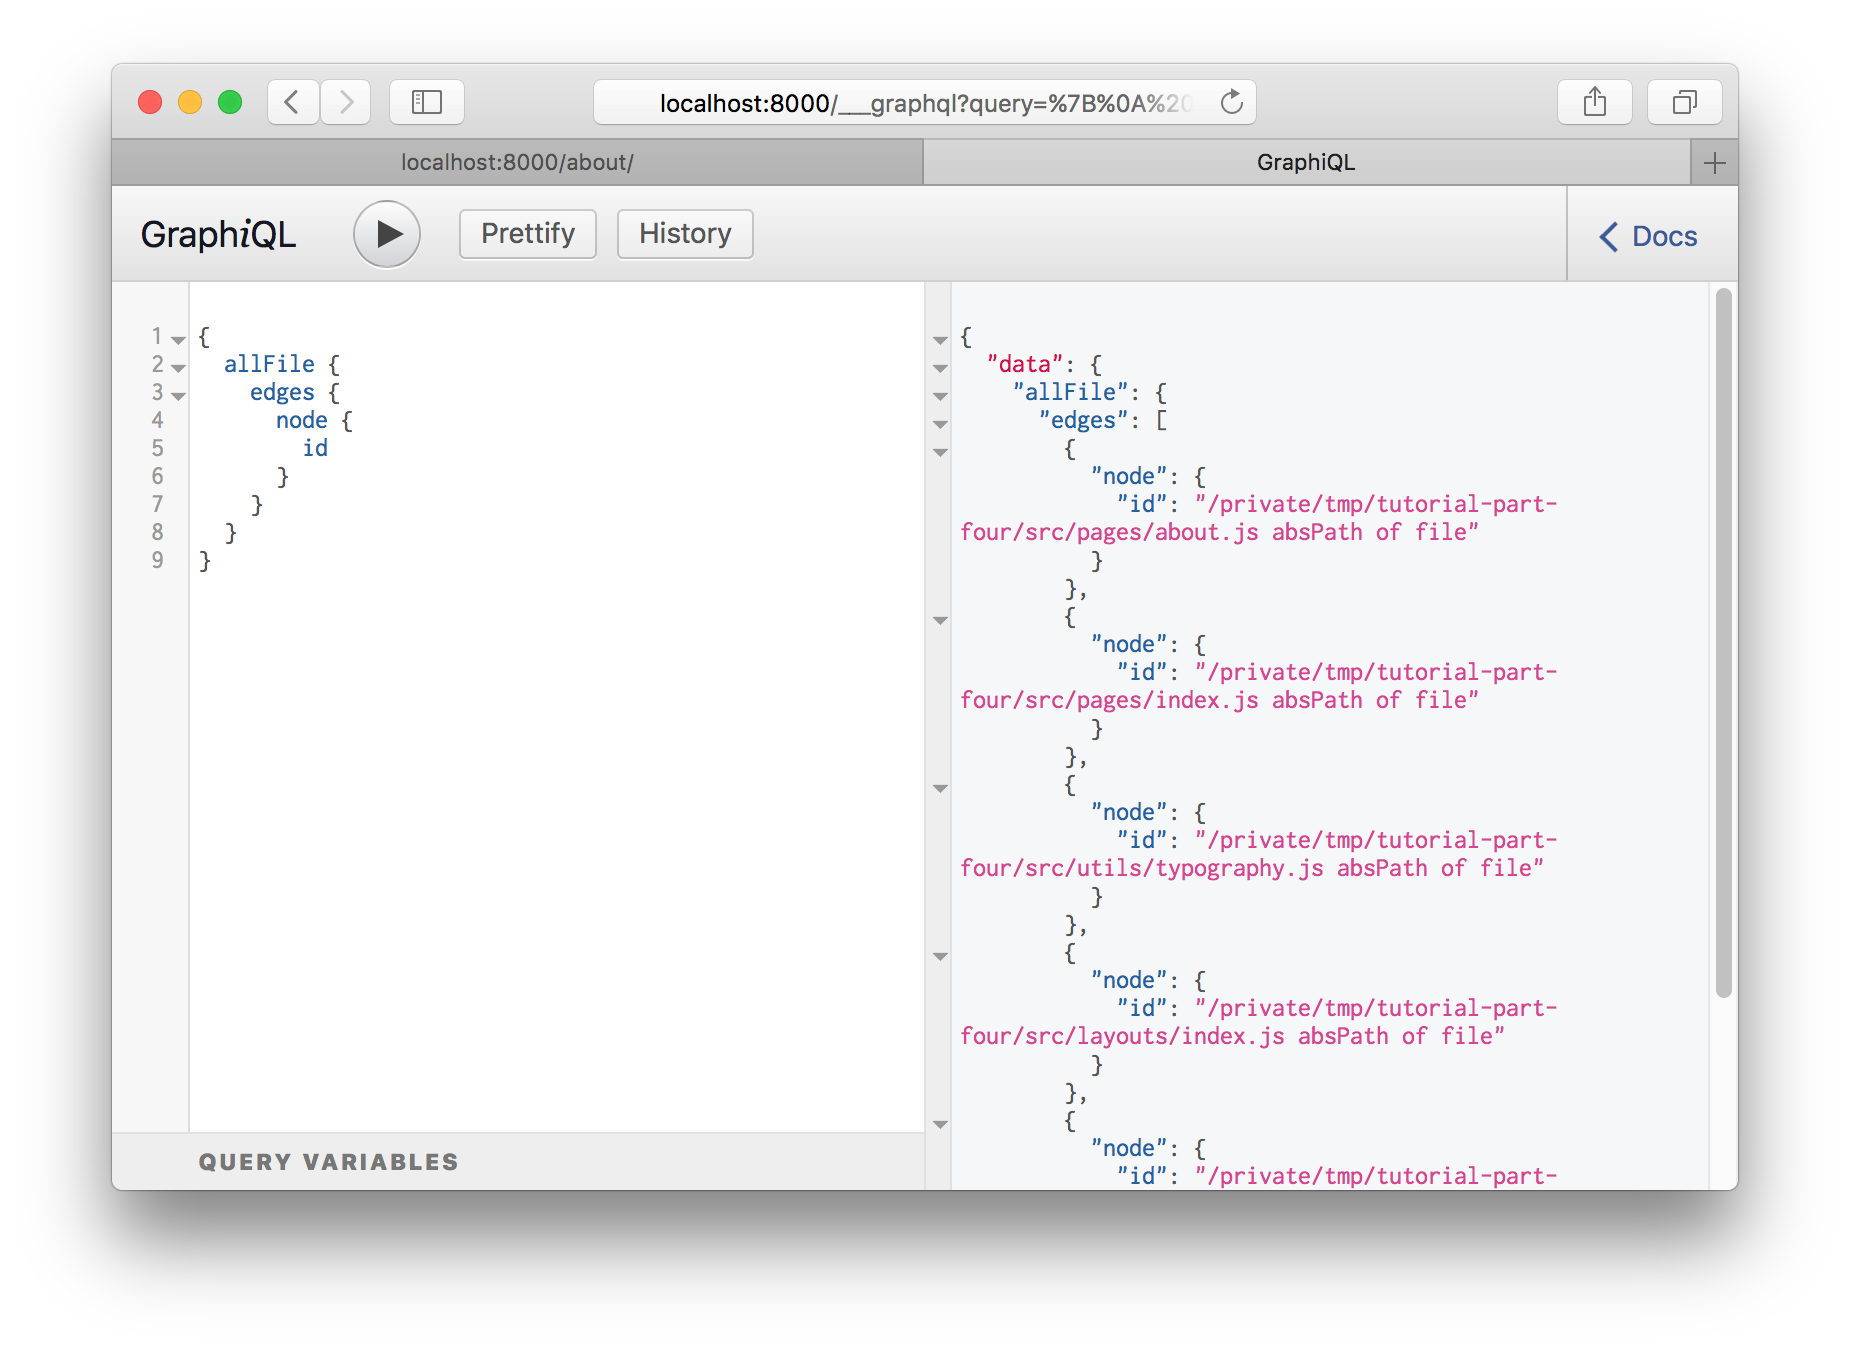
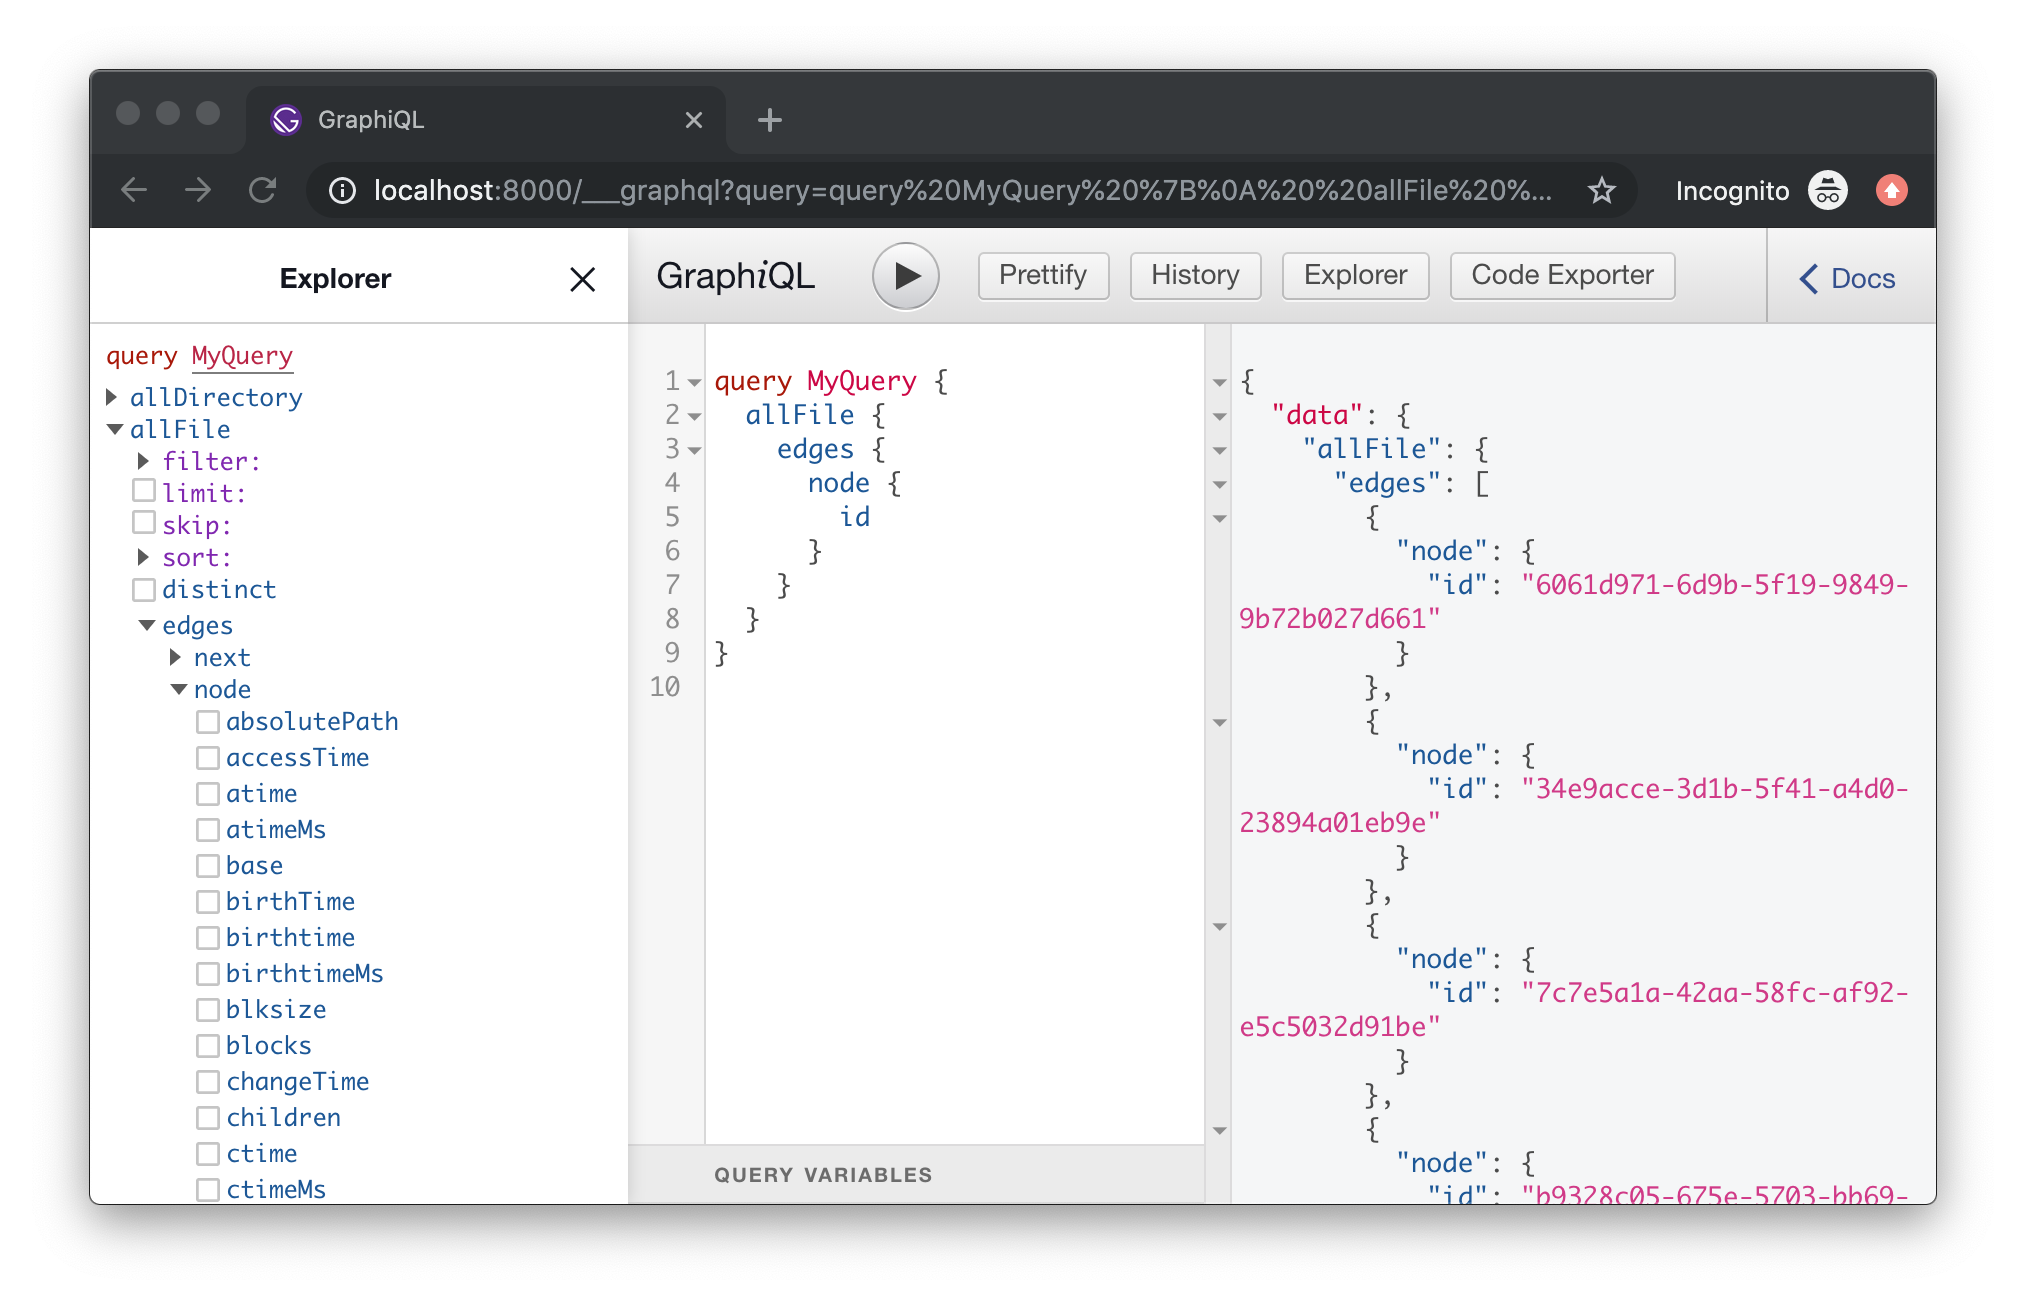
add graphiql explorer examples

diff --git a/docs/tutorial/part-five/index.md b/docs/tutorial/part-five/index.md
@@ -75,20 +75,21 @@ module.exports = {
 }
 ```
 
-Save that and restart the gatsby development server. Then open up GraphiQL
-again.
+Save that and restart the gatsby development server. Then open up GraphiQL again.
 
-If you bring up the autocomplete window, you'll see:
+In the explorer pane, you'll see `allFile` and `file` available as selections:
 
 ![graphiql-filesystem](graphiql-filesystem.png)
 
-Hit <kbd>Enter</kbd> on `allFile` then type <kbd>Ctrl + Enter</kbd> to run a
-query.
+Click the `allFile` dropdown. Position your cursor after `allFile` in the query area, and then type <kbd>Ctrl + Enter</kbd>. This will pre-fill a query for the `id` of each file. Press "Play" to run the query:
 
 ![filesystem-query](filesystem-query.png)
 
-Delete the `id` from the query and bring up the autocomplete again (<kbd>Ctrl +
-Space</kbd>).
+In the Explorer pane, the `id` field has automatically been selected. Make selections for more fields by checking the field's corresponding checkbox. Press "Play" to run the query again, with the new fields:
+
+![filesystem-explorer-options](filesystem-explorer-options.png)
+
+Alternatively, you can add fields by using the autocomplete shortcut (<kbd>Ctrl + Space</kbd>). This will show queryable fields on the `File` nodes.
 
 ![filesystem-autocomplete](filesystem-autocomplete.png)
 
@@ -97,8 +98,8 @@ each time to re-run the query. You'll see something like this:
 
 ![allfile-query](allfile-query.png)
 
-The result is an array of File "nodes" (node is a fancy name for an object in a
-"graph"). Each File object has the fields you queried for.
+The result is an array of `File` "nodes" (node is a fancy name for an object in a
+"graph"). Each `File` node object has the fields you queried for.
 
 ## Build a page with a GraphQL query
 
